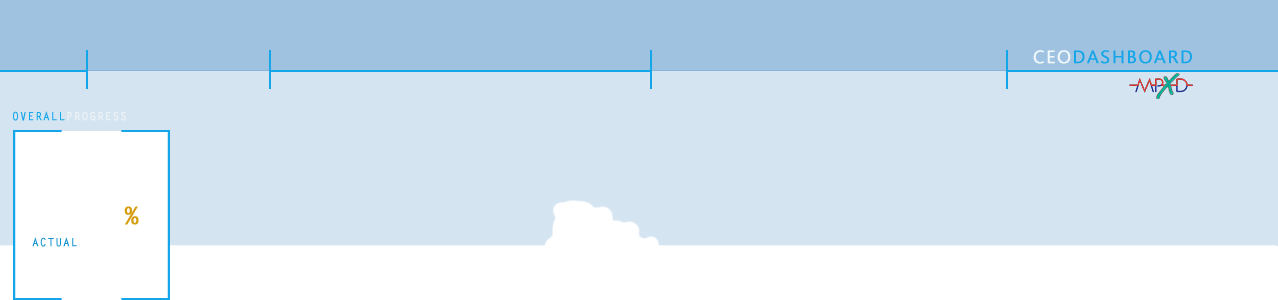
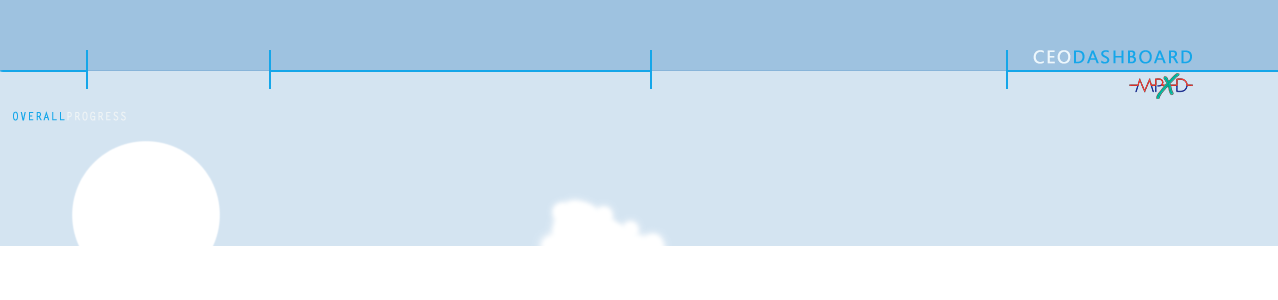
Signed-off-by: ancymathew <ancy@hummingsoft.com.my>

diff --git a/assets/templates/install_test_com_status.html b/assets/templates/install_test_com_status.html
@@ -83,7 +83,7 @@
             <%var rspan; if(i['ac_or_dc_three']!=null){rspan=3}else{rspan=2}%>
             <td rowspan="<%=rspan%>"><b><%=i['station_code']%></b><br><%=i['station_name']%></td>
             <!--<td rowspan="<%=rspan%>"><%=i['install_status']%></td>-->
-            <td rowspan="<%=rspan%>" style="text-align: center"><i class="fa fa-circle" style="color:<%if(i['install_status']=='Completed'){%>#2acd4a<%}else if(i['install_status']=='In Progress'){%>#efe24b<%}else if(i['install_status']=='Handed Over'){%>#0070C0<%}else{%>#E83737<%}%>;"></i></td>
+            <td rowspan="<%=rspan%>" style="text-align: center"><i class="fa fa-circle" style="color:<%if(i['install_status']=='Completed'){%>#2acd4a<%}else if(i['install_status']=='In Progress'){%>#efe24b<%}else if(i['install_status']=='Handed Over'){%>#0070C0<%}else{%>#E83737<%}%>;"></i><b><br><%=i['install_percentage']%></b></td>
             <td class="color-beige"><%=i['ac_or_dc_one']%></td>
             <td style="text-align: center;color:<%if(i['33kv_pat']=='N/A'){%>#ffd461<%}%>"><%if(i['33kv_pat']=='N/A'){%>N/A<%}else if(i['33kv_pat']=='-'){%>-<%}else{%><i class="fa fa-circle" style="color:<%if(i['33kv_pat']=='Completed'){%>#2acd4a<%}else if(i['33kv_pat']=='In Progress'){%>#efe24b<%}else{%>#E83737<%}%>;"></i><%}%></td>
             <!--<td><i class="fa fa-circle"></i></td>-->

diff --git a/application/views/additional/psds.php b/application/views/additional/psds.php
@@ -19,6 +19,7 @@
 		<script type="text/javascript" src="<?php echo $this->config->base_url(); ?>assets/plugin/zoomooz/jquery.zoomooz.min.js"></script>
         <script type=text/javascript src="<?php echo $this->config->base_url(); ?>assets/custom-scrollbar/jquery.mCustomScrollbar.concat.min.js"></script>
         <script type=text/javascript src="<?php echo $this->config->base_url(); ?>assets/plugin/basicmodal/js/jquery.simplemodal.js"></script>
+        <script type=text/javascript src="<?php echo $this->config->base_url(); ?>assets/plugin/progressbar/circle-progress.js"></script>
 
 		<style type="text/css">
 			/* No style rules here yet */	
@@ -43,8 +44,11 @@
 				height: 800px;
 				overflow: hidden;
 			}
-			
-			
+            #navbar-center {
+                position: absolute;
+                top: -30px;
+                left: 296px;
+            }
 			svg .smallcircle {
 				fill: #cccccc;
 			}
@@ -283,15 +287,19 @@
 			#navbar a.nopointer, #navbar-left a.nopointer {
 				cursor: default;
 			}
-			
-			
-			
-			
-			
-			
-			
-			
-			
+            #project_progress_container strong {
+                position: absolute;
+                top: 54px;
+                left: 0;
+                width: 100%;
+                text-align: center;
+                line-height: 40px;
+                font-size: 30px;
+                color: rgb(243, 179, 8);
+            }
+            #project_progress_container strong i {
+                font-size: 17px;
+            }
 			.nav {
 			  list-style: none;
 			  text-align: center;
@@ -792,7 +800,10 @@
                 <a href="#"><img src="<?php echo $this->config->base_url(); ?>assets/img/home.png" onclick="location.href='/mpxd/front'"/></a>
                 <a href="#"><img src="<?php echo $this->config->base_url(); ?>assets/img/logout_de.png" onclick="location.href='/mpxd/logout'"/></a>
 			</div>
-			 <div id="navbar">
+            <div id="navbar-center">
+                <span style="font-size: 15px; color: #fff; font-weight: 600; text-transform: uppercase">Power Supply and Distribution System</span>
+            </div>
+            <div id="navbar">
 				<!--<a href="./graph_din.html"><img src="<?php echo $this->config->base_url(); ?>assets/img/construction.png" /></a>-->
                  <a class="nav-img-container nopointer" href="#"><img src="<?php echo $this->config->base_url(); ?>assets/img/nav_design.png" /><i id="design_trending" class="fa" style="color: rgb(13, 139, 43)"></i><br><span id="design_progress" class="pull-left" style="color: #f3b308; font-size: 13px; font-weight:600;"></span></a>
 				<!--<a href="#"><img src="<?php //echo $this->config->base_url(); ?>assets/img/commercial2.png" /></a>-->
@@ -995,13 +1006,13 @@
         <a title="AC & DC Energized" class="legend-stat" data-value="s_5" href="javascript:void(0);" style="position: absolute; top: 581px; left: 720px; height: 18px; width: 112px;"></a>
 	</div>
 	
-	<div style="position:absolute; top: 258px;left: 129px;"><img src="<?php echo $this->config->base_url(); ?>assets/img/arrow2.png" style="width:20px;"/></div>
-	
-	<div id="project_progress_container" style="position:absolute; z-index:2; top: 119px;left: 30px;">
-		<span id="overall_actual" class="header-left" style="font-size:90px;"></span>
-		<!-- <span class="subheader-left" style="">%</span> -->
-	</div>
-	
+	<!--<div style="position:absolute; top: 258px;left: 129px;"><img src="<?php /*echo $this->config->base_url(); */?>assets/img/arrow2.png" style="width:20px;"/></div>-->
+
+    <div id="project_progress_container" style="position:absolute; z-index:2; top: 130px;left: 70px;">
+        <strong></strong>
+        <!--        <span id="overall_actual" class="header-left" style="font-size:90px;"></span>-->
+        <!-- <span class="subheader-left" style="">%</span> -->
+    </div>
 	
 	<div style="position:absolute; z-index:2; top: 125px;left: 179px;">
 <!--		<span class="header-left" style="font-size:72px;" id="overall_early"></span>-->
@@ -1077,9 +1088,9 @@
 		<a href="<?php echo $this->config->base_url(); ?>systems/summary" class="pkg_title">SBK-S</a>
 	</div> -->
 	<!-- V1 -->
-<!--	<div style="position:absolute; z-index:2; top: 437px;left: 635px;">-->
-<!--		<a href="--><?php //echo $this->config->base_url(); ?><!--systems/summary" class="pkg_title">SBK-S</a>-->
-<!--	</div>-->
+	<div style="position:absolute; z-index:2; top: 445px; left: 622px; background-color: #3f6a7766; border-radius: 3px; padding: 6px;">
+        <a href="<?php echo $this->config->base_url(); ?>systems/summary" class="pkg_title" style="font-size: 25px;">SBK-S-05</a>
+    </div>
 	<div style="position:absolute; z-index:2; top: 350px;left: 200px;">
 		<a href="<?php echo $this->config->base_url(); ?>north/index" class="pkg_title2">North</a>
 	</div>
@@ -1204,13 +1215,23 @@
             }
             $("#status_container").append(st);
             //Ends here
-			$('#overall_actual').text(data['overall_actual']);
+			/*$('#overall_actual').text(data['overall_actual']);*/
 			//$('#overall_variance').text(data['overall_variance'].toFixed(0));
 			$('#overall_variance').text(data['overall_variance']);
 			$('#overall_early').text(data['overall_late']);
 			$('#progress_date').text(prettyDate(data['progress_date']));
 			$('#financial_date').text(prettyDate(data['comdate']));
-		
+            $overall=(parseFloat((typeof data['overall_actual']=='undefined')?0:data['overall_actual']));
+            $('#project_progress_container').circleProgress({
+                value: ($overall/100),
+                fill: { gradient: ['#07c6c1','#0681c4'] },
+                size: 150,
+                emptyFill: 'rgb(199, 69, 58)',//'rgb(244, 67, 54)',
+                thickness: 20,
+                startAngle: -1.5
+            }).on('circle-animation-progress', function(event, progress) {
+                $(this).find('strong').html(($overall * progress).toFixed(2) + '<i>%</i>');
+            });
 			$i = $('#mapimg');
 			//Width and height
 			var w = $i.width();

diff --git a/application/models/dashboard_model.php b/application/models/dashboard_model.php
@@ -1252,7 +1252,7 @@ class Dashboard_model extends CI_Model
         $result = $query->result_array();
         foreach ($result as $val) {
             $status = (intval($val['PSCADA_SAT']) == 1 && intval($val['PSCADA_PAT']) == 1) ? 'Completed' : ((intval($val['PSCADA_SAT']) == null && intval($val['PSCADA_PAT']) == null) ? 'N/A' : 'In Progress');
-            $pscada_status[intval($val['STATION_CODE'])] = array($status);
+            $pscada_status[$val['STATION_CODE']] = array($status);
         }
         return $pscada_status;
     }
@@ -1327,13 +1327,13 @@ class Dashboard_model extends CI_Model
         }
         $query = $this->db->query($sql);
         $result = $query->result_array();
-
         foreach ($result as $val) {
             $a[$i] = array(
                 "ring_number" => intval($val['RING_NUMBER']),
                 "station_name" => $val['STATION_NAME'],
                 "station_code" => $val['STATION_CODE'],
                 "install_status" => (intval($val['INSTALL_STATUS']) == 1) ? 'Completed' : ((intval($val['INSTALL_STATUS']) == 2) ? 'In Progress' : ((intval($val['INSTALL_STATUS']) == 3) ? 'Pending' : ((intval($val['INSTALL_STATUS']) == -1) ? 'N/A' : ((intval($val['INSTALL_STATUS']) == 4) ? 'Handed Over' : '-')))),
+                "install_percentage"=>($val['INSTALL_PERCENTAGE'] == null || $val['INSTALL_PERCENTAGE'] == "") ? '' :  $val['INSTALL_PERCENTAGE']."%",
                 "33kv_pat" => (intval($val['33KV_PAT']) == 1) ? 'Completed' : (intval($val['33KV_PAT']) == 2 ? 'In Progress' : (intval($val['33KV_PAT']) == 3 ? 'Pending' : (intval($val['33KV_PAT']) == -1 ? 'N/A' : (intval($val['33KV_PAT']) == 4 ? 'Handed Over' : '-')))),
                 "750v_pat" => (intval($val['750V_PAT']) == 1) ? 'Completed' : (intval($val['750V_PAT']) == 2 ? 'In Progress' : (intval($val['750V_PAT']) == 3 ? 'Pending' : (intval($val['750V_PAT']) == -1 ? 'N/A' : (intval($val['750V_PAT']) == 4 ? 'Handed Over' : '-')))),
                 "pscada_pat" => (intval($val['PSCADA_PAT']) == 1) ? 'Completed' : (intval($val['PSCADA_PAT']) == 2 ? 'In Progress' : (intval($val['PSCADA_PAT']) == 3 ? 'Pending' : (intval($val['PSCADA_PAT']) == -1 ? 'N/A' : (intval($val['PSCADA_PAT']) == 4 ? 'Handed Over' : '-')))),
@@ -1372,10 +1372,10 @@ class Dashboard_model extends CI_Model
             "value" => array()
         );
         if ($date) { //If date is selected
-            $sql = "SELECT DISTINCT tts.*  FROM \"tbl_trip_status\" AS tts, \"tbl_testing_and_commission\" AS ttc WHERE ((tts.\"STATION_FROM\"= ttc.\"STATION_CODE\") OR (tts.\"STATION_TO\"= ttc.\"STATION_CODE\"))  AND ttc.\"RING_NUMBER\"='$ring_no'  AND tts.\"DATA_DATE\"='$date'";
+            $sql = "SELECT DISTINCT tts.*  FROM \"tbl_trip_status\" AS tts, \"tbl_testing_and_commission\" AS ttc WHERE ((tts.\"STATION_FROM\"= ttc.\"STATION_CODE\") OR (tts.\"STATION_TO\"= ttc.\"STATION_CODE\"))  AND ttc.\"RING_NUMBER\"='$ring_no'  AND tts.\"DATA_DATE\"='$date' ORDER  BY tts.\"STATION_FROM\" ";
 //            $sql = 'select * from "tbl_trip_status" where "RING_NUMBER"='.$ring_no.' and "DATA_DATE"='.$date.'';
         } else {
-            $sql = 'SELECT DISTINCT tts.*  FROM "tbl_trip_status" AS tts, "tbl_testing_and_commission" AS ttc WHERE ((tts."STATION_FROM"= ttc."STATION_CODE") OR (tts."STATION_TO"= ttc."STATION_CODE"))  AND ttc."RING_NUMBER"='."'" . $ring_no ."'". '  AND tts."DATA_DATE"=(SELECT MAX("DATA_DATE") FROM "tbl_trip_status")';
+            $sql = 'SELECT DISTINCT tts.*  FROM "tbl_trip_status" AS tts, "tbl_testing_and_commission" AS ttc WHERE ((tts."STATION_FROM"= ttc."STATION_CODE") OR (tts."STATION_TO"= ttc."STATION_CODE"))  AND ttc."RING_NUMBER"='."'" . $ring_no ."'". '  AND tts."DATA_DATE"=(SELECT MAX("DATA_DATE") FROM "tbl_trip_status") order by tts."STATION_FROM" ';
         }
         $query = $this->db->query($sql);
         $result1 = $query->result_array();
